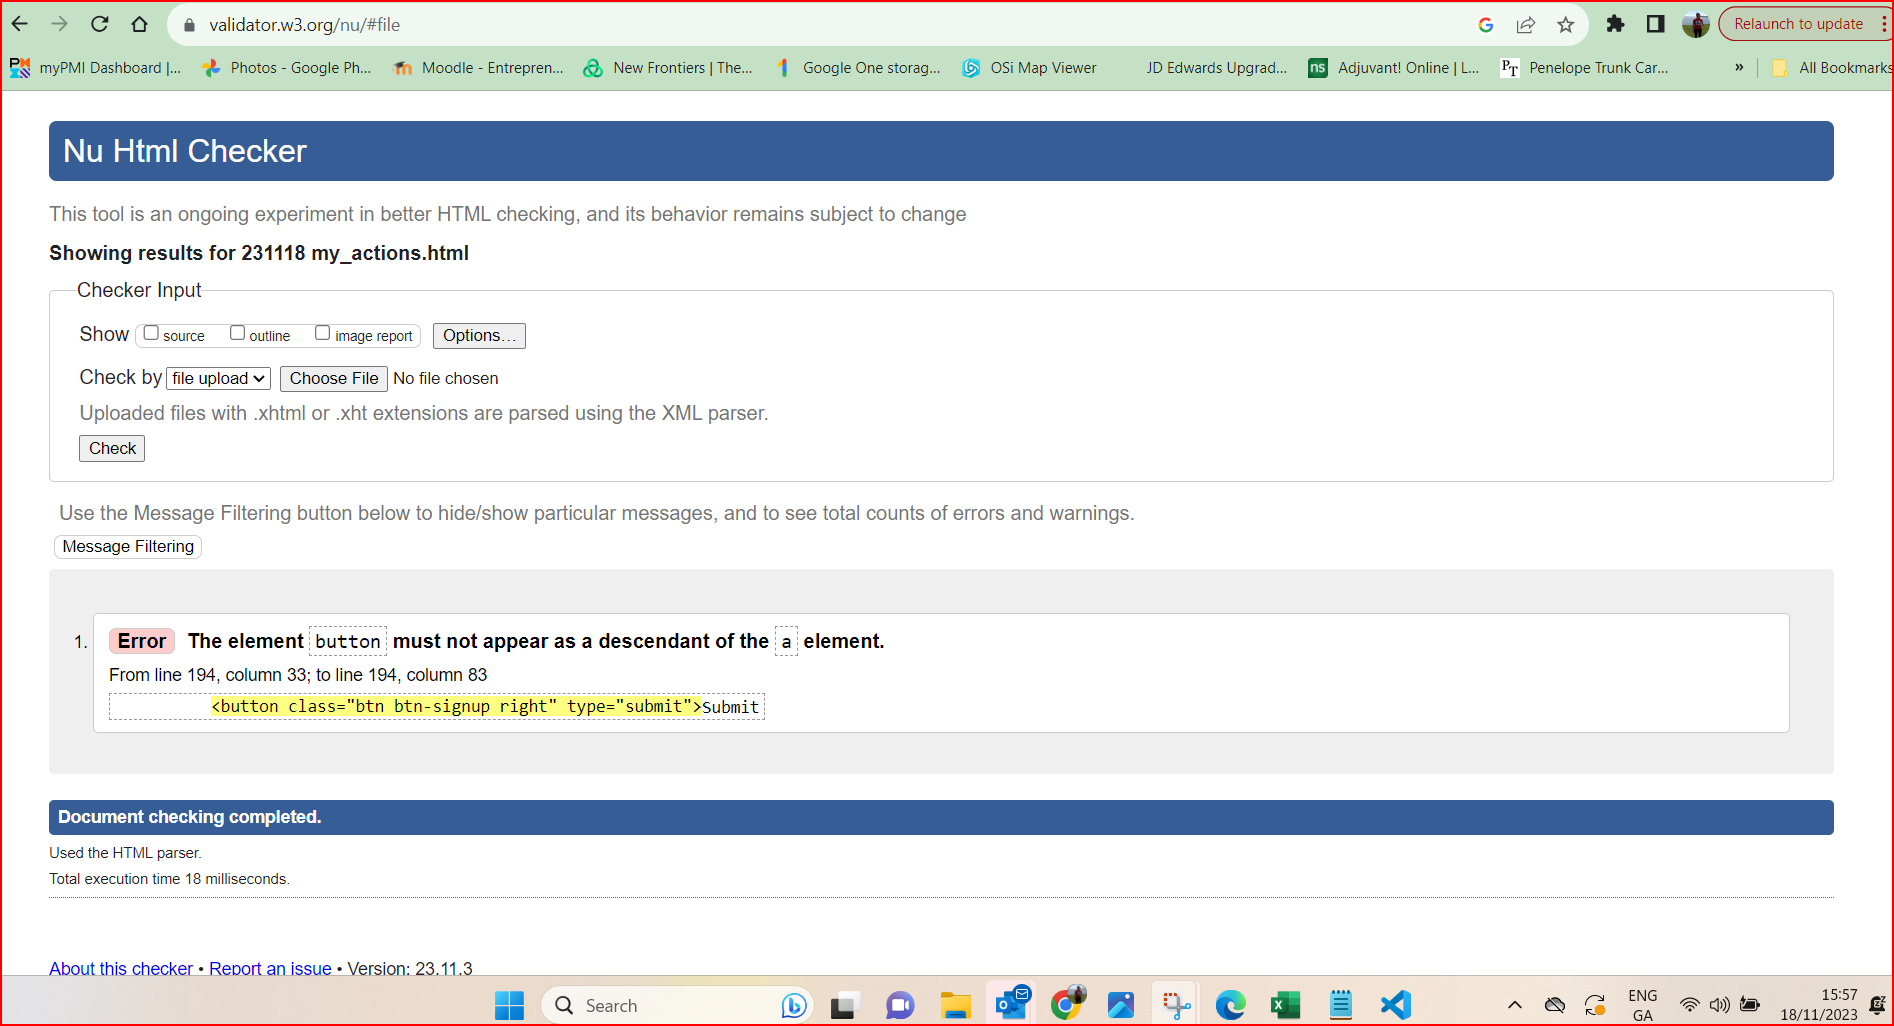
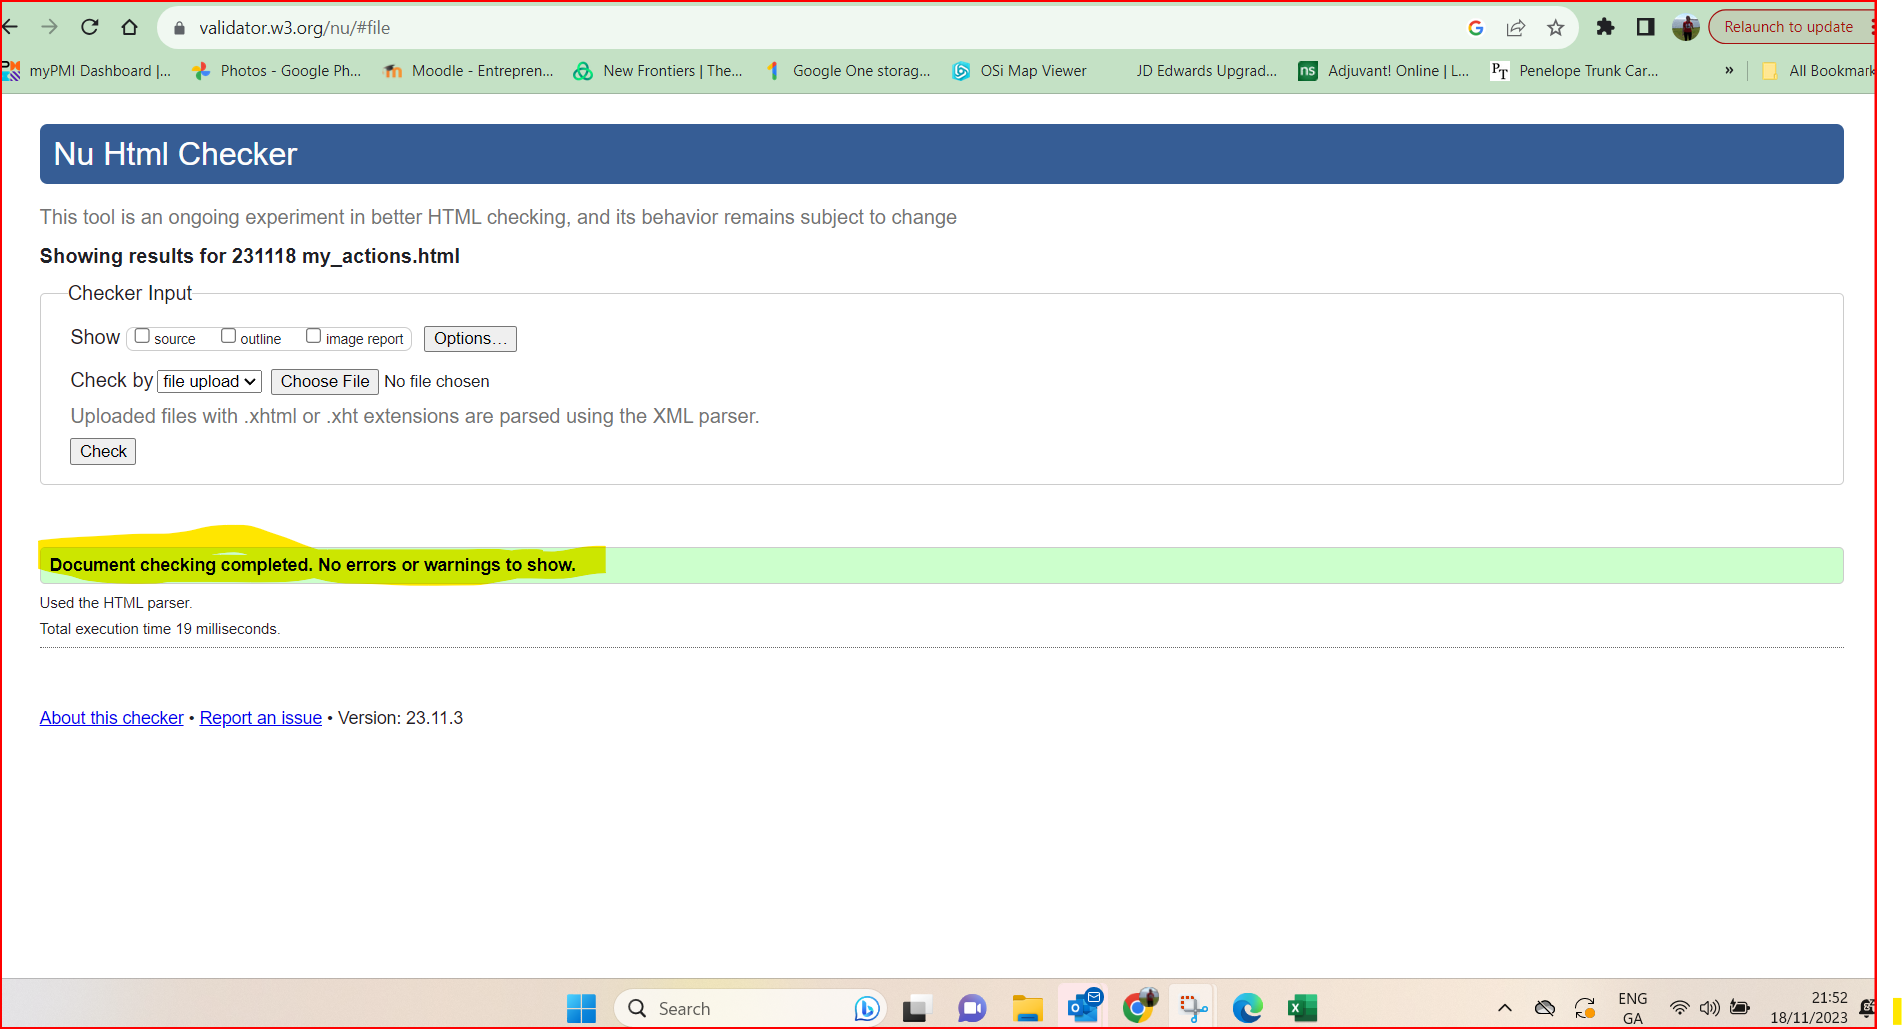
Apply W3C validation changes to index and my_actions html Issue #42

diff --git a/templates/my_actions.html b/templates/my_actions.html
@@ -12,18 +12,20 @@
                         <div class="input-form">
                             <!-- DMcC 18/11/23 removed action="" as it throws an error on W3C checking -->
                             <form method="post" style="margin-top:1.3em">
-                            <br>
-                            {% csrf_token %} 
-                            {{form.as_p}}
-                            <p></p>
-                            <a href="{% url 'create_action' %}">
-                                <button class="btn btn-signup right" type="submit">Submit</button></a>
-                                
-                            <!-- <input type = "submit" value = "Submit"> -->
-                            <a class="cancel-link" href="{% url 'my_planner' %}" > Cancel </a>
-                            <p>
-                            </p>
+                                <br>
+                                {% csrf_token %} 
+                                {{form.as_p}}
+                                <p></p>
+                                <button class="btn btn-signup right" type="submit">Submit</button>
                             </form>
+                            <!-- DMcC 18/11/23 replace the button-in-anchor structure below as not WC compliant -->
+                            <!-- would prefer to have Cancel as button rather than just a text link however form-in-form not permitted so it renders--> 
+                            <!-- below the submit button (not ideal)-->
+                            <p></p>
+                            <form style="display: inline"  action="{% url 'my_planner' %}" method="get">
+                                <button class="btn btn-cancel right">Cancel</button>
+                            </form>
+                            <br>
                         </div>    
                     </div> <!-- end class col col-sm-12 rounded-left-->
                 </div> <!-- end div class row z-depth-3 -->

diff --git a/templates/index.html b/templates/index.html
@@ -32,7 +32,7 @@
                                 <h2 class="card-title">{{ article.title }}</h2>
                                 <p class="card-text">{{ article.excerpt }}</p>
                             </a>
-                            <hr/>
+                            <hr>
                             <!-- DMcC 15/11/23 changed the below to show the last updated, rather than created, date for each article-->
                             <p class="card-text text-muted h6">{{ article.updated_on }} 
                             <!-- <i class="far fa-heart"></i> {{ article.number_of_likes }} -->
